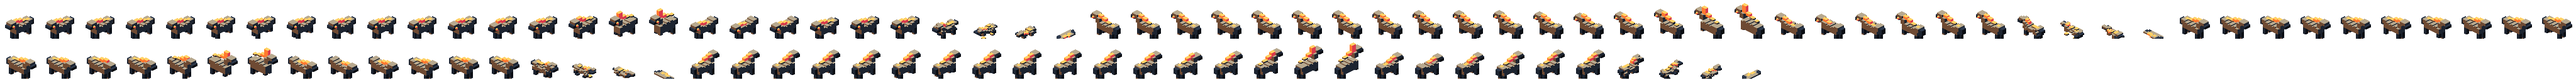
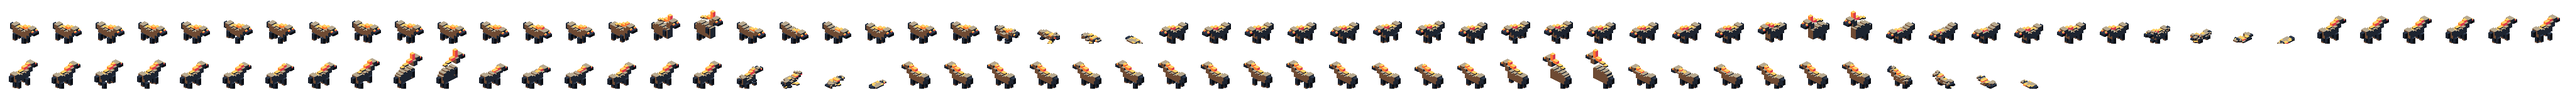
Corrige orientacao e giro do Corcel
O rasterizador de voxel assume FRENTE EM -Y e rotaciona o modelo por
direcao. O Corcel foi autorado com a cabeca em +x: ele ficava 90 graus fora
de fase com a propria direcao e corria de lado nas quatro direcoes.

O modelo foi reescrito no eixo certo — comprimento em y, largura em x — em
vez de transformado mecanicamente: coordenadas rotacionadas por baixo dos
panos tornariam qualquer edicao futura do modelo confusa.

A verificacao virou parte do fluxo: renderizar as quatro direcoes com uma
seta apontando para onde a entidade VAI, e conferir que a cabeca segue a
seta. As quatro batem.

Junto:

- Batida de dois tempos em diagonal no `walk`. O ciclo anterior levantava as
  quatro patas pelo mesmo contador e o bicho pulava como coelho.
- HORSE_TURN_RATE: ele deixa de virar no lugar. Todo o resto do bestiario
  aponta para o jogador e anda naquela direcao no mesmo tick — aceitavel num
  bicho pequeno, ilegivel num quadrupede de 2 tiles. Limitado a 0,12
  rad/tick ele descreve um ARCO, e o arco e o que da ao jogador a chance de
  sair pelo lado de dentro da curva.

  A primeira versao do giro misturava `facing` com o alvo e normalizava, o
  que PARECIA equivalente e nao e: com os dois exatamente opostos a mistura
  continua no mesmo eixo e a normalizacao devolve o vetor original. O cavalo
  nao virava — e so quando quem estava atras dele era o jogador, que e o
  caso em que a curva importa. O teste foi escrito antes da correcao e pegou
  isso; virou limite de passo angular.
[…]

diff --git a/packages/voxelyn-survival-sim/src/entities.ts b/packages/voxelyn-survival-sim/src/entities.ts
@@ -30,6 +30,7 @@ import {
   HORSE_CHARGE_WINDUP_TICKS,
   HORSE_HP,
   HORSE_TRAIL_DELAY_TICKS,
+  HORSE_TURN_RATE,
   HORSE_TRAIL_FUEL_TICKS,
   GUARDIAN_ARENA_EXITS,
   GUARDIAN_ARENA_RADIUS,
@@ -951,6 +952,35 @@ export const updateEnemies = (state: SurvivalState, events: SemanticEvent[]): vo
       }
       enemy.vx *= enemy.archetype === 'guardian' ? 0.92 : 0.82;
       enemy.vy *= enemy.archetype === 'guardian' ? 0.92 : 0.82;
+    }
+
+    // O cavalo NAO vira no lugar.
+    //
+    // Todos os outros inimigos apontam para o jogador e andam naquela direcao no
+    // mesmo tick. Num bicho de 2 tiles isso le como sprite sendo arrastado, e nao
+    // como corpo correndo — e foi exatamente o que apareceu na primeira versao.
+    // Fechando a curva aos poucos ele descreve um ARCO, que e o que da ao jogador
+    // a chance de sair pelo lado de dentro dela.
+    //
+    // Vale so fora da investida: a investida ja congela a direcao no windup, e
+    // suavizar por cima disso faria o cavalo desviar do proprio telegrafo.
+    // Gira por ANGULO, e nao interpolando os dois vetores.
+    //
+    // Misturar `facing` com o alvo e normalizar parecia equivalente e nao e: com
+    // os dois exatamente opostos, a mistura continua no MESMO eixo e a
+    // normalizacao devolve o vetor original. O cavalo simplesmente nao virava —
+    // e so quando quem estava atras dele era o jogador, que e o caso em que a
+    // curva importa. Limitar o passo angular nao tem esse ponto cego.
+    if (enemy.archetype === 'fungal_horse' && (dirX !== 0 || dirY !== 0)) {
+      const current = Math.atan2(enemy.facing.y, enemy.facing.x);
+      let delta = Math.atan2(dirY, dirX) - current;
+      // Para o menor lado. Sem isto, virar de +170 para -170 graus daria a volta
+      // inteira por fora em vez dos 20 graus que realmente separam os dois.
+      while (delta > Math.PI) delta -= Math.PI * 2;
+      while (delta < -Math.PI) delta += Math.PI * 2;
+      const stepped = current + Math.max(-HORSE_TURN_RATE, Math.min(HORSE_TURN_RATE, delta));
+      dirX = Math.cos(stepped);
+      dirY = Math.sin(stepped);
     }
 
     if (dirX !== 0 || dirY !== 0) {

diff --git a/packages/voxelyn-survival-sim/tests/bosses.test.ts b/packages/voxelyn-survival-sim/tests/bosses.test.ts
@@ -348,6 +348,25 @@ describe('Cavalo Fungico', () => {
     expect(horse.rangedReadyAt).toBeGreaterThan(state.tick);
   });
 
+  // Todos os outros inimigos apontam para o jogador e andam naquela direcao no
+  // mesmo tick. Num quadrupede de 2 tiles isso le como sprite sendo arrastado, e
+  // nao como corpo correndo.
+  it('vira em arco, e nao no lugar', () => {
+    const state = createRun({ seed: 54 });
+    const horse = spawnHorseFacing(state, 8);
+    // Cabeca apontando para o lado OPOSTO ao jogador (que esta em -x).
+    horse.facing = { x: 1, y: 0 };
+    // Fora da janela de investida: aqui interessa a perseguicao, nao a corrida.
+    horse.rangedReadyAt = state.tick + 10_000;
+
+    stepRun(state, [emptyCommand()]);
+    const afterOne = horse.facing.x;
+    expect(afterOne, 'virou 180 graus num unico tick').toBeGreaterThan(0.5);
+
+    stepIdle(state, 20);
+    expect(horse.facing.x, 'nunca completou a curva').toBeLessThan(0);
+  });
+
   it('aparece pela seed, e nao pelo relogio', () => {
     const a = archetypesOf(createRun({ seed: 771, sector: 1 }));
     const b = archetypesOf(createRun({ seed: 771, sector: 1 }));

diff --git a/packages/voxelyn-survival-sim/src/constants.ts b/packages/voxelyn-survival-sim/src/constants.ts
@@ -323,6 +323,21 @@ export const HORSE_TRAIL_DELAY_TICKS = 4;
  * dois sao os dois lados normais disso.
  */
 export const HORSE_SPAWN_CHANCE = 0.34;
+/**
+ * Quanto ele consegue virar por tick, em RADIANOS.
+ *
+ * Todo o resto do bestiario aponta para o jogador e anda naquela direcao no
+ * mesmo tick, sem inercia — aceitavel num bicho pequeno e ilegivel num
+ * quadrupede de 2 tiles, que lia como sprite sendo arrastado e nao como corpo
+ * correndo. Virando aos poucos ele descreve um ARCO, e o arco e o que da ao
+ * jogador a chance de sair pelo lado de dentro da curva: o contra-jogo natural
+ * de qualquer coisa que carrega.
+ *
+ * 0,12 rad/tick sao ~137 graus por segundo, entao dar meia-volta custa 1,3 s.
+ * Mais rapido e ele volta a girar no lugar; mais lento e ele nunca alcanca
+ * ninguem entre uma investida e outra.
+ */
+export const HORSE_TURN_RATE = 0.12;
 
 export const ENEMY_MIN_SPAWN_DIST = 12;
 export const GUARDIAN_HP = 420;

diff --git a/docs/bosses/voxelyn-survival-bosses.md b/docs/bosses/voxelyn-survival-bosses.md
@@ -269,7 +269,13 @@ O `special` é a Investida Flamejante em duas metades: os três primeiros frames
 crista e esticam o corpo. Sem isso os frames de corrida seriam o mesmo cavalo só que
 mais adiante.
 
-Duas correções que só apareceram olhando o resultado:
+**O bug que mais custou:** o rasterizador assume **frente em −y** e rotaciona o modelo
+por direção. Eu autorei o Corcel com a cabeça em **+x** — ele ficava 90° fora de fase
+com a própria direção e corria de lado. A verificação virou parte do fluxo: renderizar
+as quatro direções com uma seta apontando para onde a entidade vai, e conferir que a
+cabeça segue a seta.
+
+Três correções que só apareceram olhando o resultado:
 
 1. **A crina é brasa, não fungo.** O rastro sai das patas, mas a fonte dele tem de
    estar visível no bicho **antes** de estar no chão — um cavalo verde deixando fogo
@@ -282,6 +288,24 @@ Duas correções que só apareceram olhando o resultado:
 
 E a crina fica **atrás** da cabeça, nunca por cima: coberta por ela, a cabeça sumia
 dentro do fogo e o bicho perdia o único ponto que diz para onde está virado.
+
+### Ele não vira no lugar
+
+Todo o resto do bestiário aponta para o jogador e anda naquela direção **no mesmo
+tick**. Aceitável num bicho pequeno, ilegível num quadrúpede de 2 tiles: lia como
+sprite sendo arrastado, não como corpo correndo.
+
+`HORSE_TURN_RATE` limita o giro a 0,12 rad/tick (~137°/s), então ele descreve um
+**arco** — e o arco é o que dá ao jogador a chance de sair pelo lado de dentro da
+curva, o contra-jogo natural de qualquer coisa que carrega. Vale só fora da investida:
+a investida já congela a direção no windup, e suavizar por cima disso faria o cavalo
+desviar do próprio telégrafo.
+
+A primeira implementação misturava `facing` com o alvo e normalizava — o que **parecia**
+equivalente e não é. Com os dois exatamente opostos, a mistura continua no mesmo eixo e
+a normalização devolve o vetor original: o cavalo simplesmente não virava, e só quando
+quem estava atrás dele era o jogador — o caso em que a curva importa. O teste
+`vira em arco, e nao no lugar` foi escrito antes da correção e pegou isso.
 
 ## 9. O que fica pendente
 
